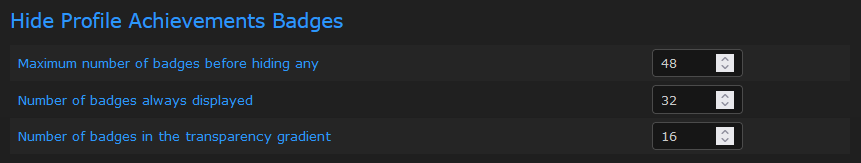
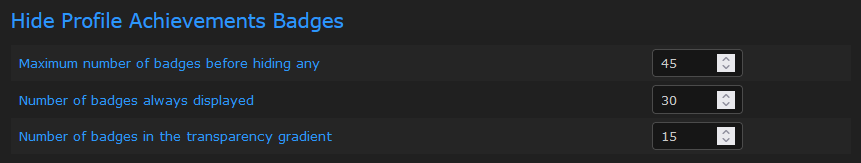
Fix RA_HideProfileAchievementsBadges for RAWeb 5.2

diff --git a/RA_HideProfileAchievementsBadges.user.js b/RA_HideProfileAchievementsBadges.user.js
@@ -1,7 +1,7 @@
 // ==UserScript==
 // @name         RA_HideProfileAchievementsBadges
 // @namespace    RA
-// @version      0.3
+// @version      0.4
 // @description  Hides achievements badges on profile page
 // @author       Mindhral
 // @homepage     https://github.com/Mindhral/RA_userscripts
@@ -15,9 +15,9 @@
 
 const PropertyPrefix = 'HideProfileAchievementsBadges.';
 const Settings = {
-    maxBadgesCount: GM_getValue(PropertyPrefix + 'maxBadgesCount', 48),
-    showBadgesCount: GM_getValue(PropertyPrefix + 'showBadgesCount', 32),
-    opacityGradientCount: GM_getValue(PropertyPrefix + 'opacityGradientCount', 16)
+    maxBadgesCount: GM_getValue(PropertyPrefix + 'maxBadgesCount', 45),
+    showBadgesCount: GM_getValue(PropertyPrefix + 'showBadgesCount', 30),
+    opacityGradientCount: GM_getValue(PropertyPrefix + 'opacityGradientCount', 15)
 };
 
 function newElement(tagName, parent, className = null, innerHTML = null) {
@@ -29,10 +29,11 @@ function newElement(tagName, parent, className = null, innerHTML = null) {
 }
 
 function settingsPage() {
+    console.log(1);
     const xpathRes = document.evaluate("//div[h3[text()='Settings']]", document, null, XPathResult.ORDERED_NODE_ITERATOR_TYPE, null);
     const settingsDiv = xpathRes.iterateNext();
     if (settingsDiv == null) return;
-
+    console.log(2);
     const newDiv = document.createElement('div');
     newDiv.className = 'component';
     settingsDiv.insertAdjacentElement('afterend', newDiv);
@@ -67,6 +68,7 @@ function settingsPage() {
     opacityGradientInput.min = 0;
     opacityGradientInput.max = Settings.showBadgesCount;
     opacityGradientInput.style.width = '7em';
+    console.log(3);
 
     maxBadgesInput.addEventListener('input', () => {
         if (!maxBadgesInput.reportValidity()) return;
@@ -82,10 +84,11 @@ function settingsPage() {
         shownBadgesInput.min = opacityGradientInput.value;
         GM_setValue(PropertyPrefix + 'opacityGradientCount', parseInt(opacityGradientInput.value));
     });
+    console.log(4);
 }
 
 function profilePage() {
-    const badgeContainers = document.querySelectorAll('div.recentlyplayed > div:nth-of-type(2n)');
+    const badgeContainers = document.querySelectorAll('div.transition-all > hr + div');
     badgeContainers.forEach(div => {
         if (div.children.length <= Settings.maxBadgesCount) return;
         for (let i = Settings.showBadgesCount; i < div.children.length; i++) {

diff --git a/README.md b/README.md
@@ -159,8 +159,8 @@ The number of badges and the height which trigger the scroll bar apparition can 
 
 ## RA_HideProfileAchievementsBadges
 
-On profile page, in *Last [n] games played* section, if a game has more than 48 badges (3 lines in wide layout), this scripts only shows the first 32 badges (2 lines) and adds a button to show the others.
-A transparency gradient is set on the last 16 badges (last line).
+On profile page, in *Last [n] games played* section, if a game has more than 45 badges (3 lines in wide layout), this scripts only shows the first 30 badges (2 lines) and adds a button to show the others.
+A transparency gradient is set on the last 15 badges (last line).
 
 ![some badges hidden and button displayed](/assets/HideProfileAchievementsBadges_button.png) ![all badges displayed](/assets/HideProfileAchievementsBadges_clicked.png)
 
